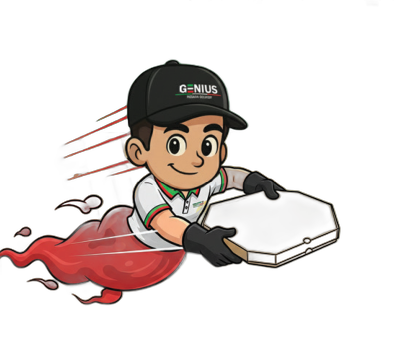
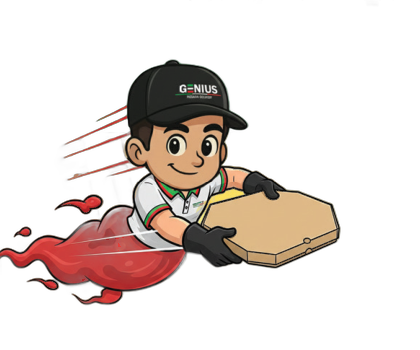
Fundo vibrante fiel à caixa, selos menores (fileira no mobile), caixa de pizza do geninho restaurada

diff --git a/site/style.css b/site/style.css
@@ -60,29 +60,29 @@ img { user-select: none; -webkit-user-drag: none; }
   margin: -87.5vmax 0 0 -87.5vmax;
   border-radius: 50%;
   background:
-    radial-gradient(closest-side at 38% 30%, rgba(70, 85, 31, .85), transparent 62%),
-    radial-gradient(closest-side at 72% 24%, rgba(142, 32, 23, .8), transparent 58%),
-    radial-gradient(closest-side at 22% 68%, rgba(227, 84, 29, .55), transparent 55%),
-    radial-gradient(closest-side at 76% 74%, rgba(93, 20, 15, .9), transparent 60%),
-    radial-gradient(closest-side at 50% 50%, rgba(245, 130, 32, .5), transparent 70%),
+    radial-gradient(closest-side at 38% 30%, rgba(109, 134, 48, .9), transparent 62%),
+    radial-gradient(closest-side at 72% 24%, rgba(196, 58, 34, .85), transparent 58%),
+    radial-gradient(closest-side at 22% 68%, rgba(240, 110, 40, .65), transparent 55%),
+    radial-gradient(closest-side at 76% 74%, rgba(150, 38, 24, .85), transparent 60%),
+    radial-gradient(closest-side at 50% 50%, rgba(250, 158, 44, .6), transparent 70%),
     conic-gradient(from 0deg,
-      #2b3a17 0deg, #6e3013 60deg, #a3261d 120deg, #46551f 180deg,
-      #8e2017 240deg, #e8541d 300deg, #2b3a17 360deg);
-  filter: blur(28px) saturate(1.05);
+      #50621f 0deg, #9a4a16 60deg, #c43a22 120deg, #66782a 180deg,
+      #b03020 240deg, #ef7224 300deg, #50621f 360deg);
+  filter: blur(26px) saturate(1.18);
   animation: girar 140s linear infinite;
 }
 
 .swirl--2 {
   width: 130vmax; height: 130vmax;
   margin: -65vmax 0 0 -65vmax;
-  opacity: .55;
+  opacity: .65;
   background:
-    radial-gradient(closest-side at 30% 40%, rgba(245, 166, 35, .5), transparent 55%),
-    radial-gradient(closest-side at 70% 60%, rgba(227, 33, 26, .45), transparent 50%),
+    radial-gradient(closest-side at 30% 40%, rgba(255, 190, 60, .6), transparent 55%),
+    radial-gradient(closest-side at 70% 60%, rgba(238, 70, 40, .5), transparent 50%),
     conic-gradient(from 180deg,
-      transparent 0deg, rgba(245, 130, 32, .5) 80deg, transparent 160deg,
-      rgba(70, 85, 31, .6) 240deg, transparent 360deg);
-  filter: blur(36px);
+      transparent 0deg, rgba(255, 176, 52, .6) 80deg, transparent 160deg,
+      rgba(122, 146, 52, .6) 240deg, transparent 360deg);
+  filter: blur(34px);
   animation: girar 90s linear infinite reverse;
 }
 
@@ -92,7 +92,7 @@ img { user-select: none; -webkit-user-drag: none; }
 .vignette {
   position: absolute; inset: 0;
   background:
-    radial-gradient(ellipse 70% 58% at 50% 46%, transparent 30%, rgba(27, 36, 15, .55) 78%, rgba(20, 26, 11, .85) 100%);
+    radial-gradient(ellipse 75% 62% at 50% 46%, transparent 40%, rgba(82, 38, 14, .3) 78%, rgba(54, 32, 12, .55) 100%);
 }
 
 /* granulado sutil, textura de impressão */
@@ -156,10 +156,10 @@ img { user-select: none; -webkit-user-drag: none; }
 .cloud-corner::before { width: 62%; height: 62%; top: -26%; left: 16%; }
 .cloud-corner::after  { width: 46%; height: 46%; top: -10%; right: -14%; }
 
-.cloud-corner--bl { left: -16vmax; bottom: -30vmax; background: #6e1d13; animation-delay: -3s; }
-.cloud-corner--br { right: -17vmax; bottom: -31vmax; background: #531209; animation-delay: -8s; }
-.cloud-corner--tl { left: -20vmax; top: -34vmax; background: #2e3d18; animation-delay: -5s; }
-.cloud-corner--tr { right: -19vmax; top: -35vmax; background: #243213; animation-delay: -11s; }
+.cloud-corner--bl { left: -16vmax; bottom: -30vmax; background: #a8331f; animation-delay: -3s; }
+.cloud-corner--br { right: -17vmax; bottom: -31vmax; background: #8c2517; animation-delay: -8s; }
+.cloud-corner--tl { left: -20vmax; top: -34vmax; background: #45601f; animation-delay: -5s; }
+.cloud-corner--tr { right: -19vmax; top: -35vmax; background: #3b541c; animation-delay: -11s; }
 
 @keyframes respirar {
   0%, 100% { transform: translateY(0) scale(1); }
@@ -391,6 +391,8 @@ img { user-select: none; -webkit-user-drag: none; }
 .puff--3 { width: clamp(46px, 6vmin, 70px);  height: clamp(15px, 2vmin, 24px); left: 22%; top: 16%; animation-delay: -7s; }
 
 /* ---------- SELOS ---------- */
+.badges { display: contents; }
+
 .badge {
   position: absolute;
   z-index: 6;
@@ -414,21 +416,21 @@ img { user-select: none; -webkit-user-drag: none; }
 }
 
 .badge--green {
-  left: clamp(8px, 7vw, 12vw);
-  top: 22%;
+  left: clamp(8px, 8vw, 14vw);
+  top: 24%;
   background: linear-gradient(160deg, var(--verde-selo), var(--verde-selo-esc));
-  padding: clamp(12px, 2vmin, 22px) clamp(16px, 2.6vmin, 30px) clamp(20px, 3vmin, 32px);
+  padding: clamp(10px, 1.6vmin, 18px) clamp(14px, 2.2vmin, 26px) clamp(16px, 2.4vmin, 26px);
   border-radius: 6px;
 }
 
 .badge--green__top {
-  font-size: clamp(26px, 4.6vmin, 48px);
+  font-size: clamp(20px, 3.6vmin, 38px);
   line-height: 1;
   text-shadow: 0 3px 0 rgba(0, 0, 0, .25);
 }
 
 .badge--green__mid {
-  font-size: clamp(17px, 3vmin, 31px);
+  font-size: clamp(13px, 2.4vmin, 25px);
   line-height: 1.15;
   text-shadow: 0 2px 0 rgba(0, 0, 0, .25);
 }
@@ -436,48 +438,48 @@ img { user-select: none; -webkit-user-drag: none; }
 .badge--green__tag {
   position: absolute;
   left: 50%;
-  bottom: clamp(-14px, -1.6vmin, -10px);
+  bottom: clamp(-12px, -1.4vmin, -9px);
   transform: translateX(-50%) rotate(-2deg);
   white-space: nowrap;
   background: var(--amarelo-estrela);
   color: var(--vermelho);
-  font-size: clamp(12px, 1.9vmin, 19px);
+  font-size: clamp(10px, 1.6vmin, 16px);
   padding: .22em .8em .18em;
   border-radius: 4px;
   box-shadow: 0 4px 10px rgba(20, 10, 4, .35);
 }
 
 .badge--red {
-  right: clamp(8px, 7vw, 12vw);
-  top: 17%;
+  right: clamp(8px, 8vw, 14vw);
+  top: 19%;
   background: linear-gradient(160deg, var(--vermelho), #b81810);
-  padding: clamp(12px, 2vmin, 24px) clamp(16px, 2.8vmin, 34px);
+  padding: clamp(10px, 1.6vmin, 20px) clamp(14px, 2.4vmin, 28px);
   border-radius: 6px;
 }
 
 .badge--red__small {
   font-family: var(--fonte-corpo);
   font-weight: 700;
-  font-size: clamp(11px, 1.7vmin, 17px);
+  font-size: clamp(10px, 1.4vmin, 14px);
   letter-spacing: .04em;
   margin-bottom: .2em;
 }
 
 .badge--red__line1 {
-  font-size: clamp(20px, 3.4vmin, 35px);
+  font-size: clamp(15px, 2.7vmin, 28px);
   line-height: 1;
   text-shadow: 0 2px 0 rgba(0, 0, 0, .25);
 }
 
 .badge--red__line2 {
-  font-size: clamp(24px, 4.2vmin, 44px);
-  line-height: 1.05;
+  font-size: clamp(18px, 3.3vmin, 35px);
+  line-height: 1.2;
   color: var(--amarelo-estrela);
   text-shadow: 0 3px 0 rgba(0, 0, 0, .3);
 }
 
 .badge--red__line3 {
-  font-size: clamp(26px, 4.6vmin, 48px);
+  font-size: clamp(20px, 3.6vmin, 38px);
   line-height: 1.05;
   letter-spacing: .03em;
   text-shadow: 0 3px 0 rgba(0, 0, 0, .3);
@@ -627,13 +629,35 @@ img { user-select: none; -webkit-user-drag: none; }
    RESPONSIVO
    ============================================================ */
 @media (max-width: 720px) {
-  .island { width: min(94vw, 48vh); }
+  .island { width: min(88vw, 46vh); }
 
-  .badge--green { left: 3vw; top: 17%; }
-  .badge--red   { right: 3vw; top: 12%; }
+  /* no celular os selos viram uma fileira no topo do palco,
+     fora do desenho — nada de cobrir os geninhos */
+  .stage { padding-top: 96px; }
 
-  .flyer--sleep { left: 2vw; top: 2%; width: clamp(90px, 24vw, 130px); }
-  .flyer--slice { right: 3vw; top: 40%; width: clamp(64px, 17vw, 95px); }
+  .badges {
+    display: flex;
+    position: absolute;
+    top: 4px; left: 0; right: 0;
+    justify-content: center;
+    align-items: flex-start;
+    gap: 14px;
+    z-index: 6;
+    pointer-events: none;
+  }
+  .badge { position: static; }
+  .badge--green { padding: 8px 14px 12px; }
+  .badge--red   { padding: 8px 14px; }
+  .badge--green__top  { font-size: 17px; }
+  .badge--green__mid  { font-size: 12px; }
+  .badge--green__tag  { font-size: 10px; bottom: -10px; }
+  .badge--red__small  { font-size: 9px; }
+  .badge--red__line1  { font-size: 13px; }
+  .badge--red__line2  { font-size: 15px; }
+  .badge--red__line3  { font-size: 17px; }
+
+  .flyer--sleep { left: 1vw; top: 110px; width: clamp(80px, 21vw, 115px); }
+  .flyer--slice { right: 2vw; top: 46%; width: clamp(58px, 15vw, 85px); }
 
   .cta__buttons { flex-direction: column; align-items: stretch; max-width: 340px; margin-inline: auto; }
   .btn { justify-content: center; }

diff --git a/site/index.html b/site/index.html
@@ -79,6 +79,7 @@
       </div>
 
       <!-- selos -->
+      <div class="badges">
       <aside class="badge badge--green p reveal-pop" data-depth=".7" style="--d:.55s">
         <p class="badge--green__top">Rápida</p>
         <p class="badge--green__mid">e Deliciosa</p>
@@ -91,6 +92,7 @@
         <p class="badge--red__line2">mundo</p>
         <p class="badge--red__line3" translate="no">GENIUS</p>
       </aside>
+      </div>
     </section>
 
     <!-- ===== Rodapé / CTA ===== -->
